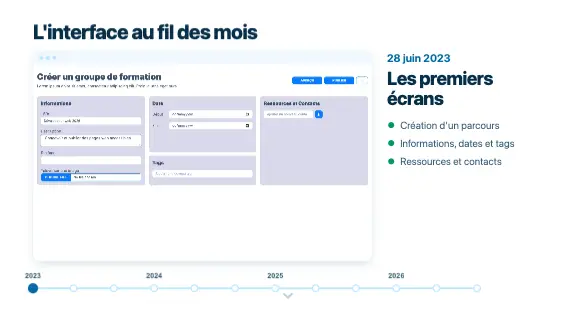
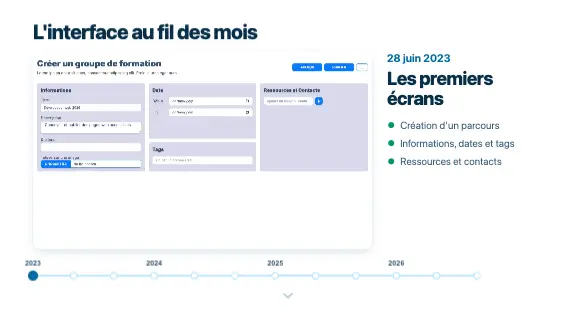
fix(S5): report du correctif de mise en page et miniature de la clôture
Reprend 045b3f5 (plus de fausse barre de fenêtre, chevron dégagé) et
régénère la miniature du plan de navigation.

Changed region(s): [[0.0625, 0.1543, 0.6562, 0.5864], [0.0312, 0.8025, 0.8438, 0.9259]]

diff --git a/composition/index.html b/composition/index.html
@@ -400,7 +400,7 @@
     <div id="scene-closing" data-stage="hidden" class="scene-frame clip" data-composition-id="closing" data-start="30" data-duration="8" data-width="1920" data-height="1080" data-tx-data-label="closing.label" data-fragments='[30.2, 30.8, 31.4, 32.0, 32.6, 33.2, 33.8, 34.4, 35.0, 35.6, 36.2, 36.8, 37.4]'>
       <div class="cam">
         <h2 class="cl-title" data-tx="closing.title"></h2>
-        <div class="cl-browser"><div class="cl-bar"><i></i><i></i><i></i></div><div class="cl-view"><div class="cl-shot"><span class="cl-miss" data-tx="closing.captureManquante"></span><img alt="" data-tx-src="closing.snapshots.0.image" data-tx-alt="closing.snapshots.0.titre" /></div><div class="cl-shot"><span class="cl-miss" data-tx="closing.captureManquante"></span><img alt="" data-tx-src="closing.snapshots.1.image" data-tx-alt="closing.snapshots.1.titre" /></div><div class="cl-shot"><span class="cl-miss" data-tx="closing.captureManquante"></span><img alt="" data-tx-src="closing.snapshots.2.image" data-tx-alt="closing.snapshots.2.titre" /></div><div class="cl-shot"><span class="cl-miss" data-tx="closing.captureManquante"></span><img alt="" data-tx-src="closing.snapshots.3.image" data-tx-alt="closing.snapshots.3.titre" /></div><div class="cl-shot"><span class="cl-miss" data-tx="closing.captureManquante"></span><img alt="" data-tx-src="closing.snapshots.4.image" data-tx-alt="closing.snapshots.4.titre" /></div><div class="cl-shot"><span class="cl-miss" data-tx="closing.captureManquante"></span><img alt="" data-tx-src="closing.snapshots.5.image" data-tx-alt="closing.snapshots.5.titre" /></div><div class="cl-shot"><span class="cl-miss" data-tx="closing.captureManquante"></span><img alt="" data-tx-src="closing.snapshots.6.image" data-tx-alt="closing.snapshots.6.titre" /></div><div class="cl-shot"><span class="cl-miss" data-tx="closing.captureManquante"></span><img alt="" data-tx-src="closing.snapshots.7.image" data-tx-alt="closing.snapshots.7.titre" /></div><div class="cl-shot"><span class="cl-miss" data-tx="closing.captureManquante"></span><img alt="" data-tx-src="closing.snapshots.8.image" data-tx-alt="closing.snapshots.8.titre" /></div><div class="cl-shot"><span class="cl-miss" data-tx="closing.captureManquante"></span><img alt="" data-tx-src="closing.snapshots.9.image" data-tx-alt="closing.snapshots.9.titre" /></div><div class="cl-shot"><span class="cl-miss" data-tx="closing.captureManquante"></span><img alt="" data-tx-src="closing.snapshots.10.image" data-tx-alt="closing.snapshots.10.titre" /></div><div class="cl-shot"><span class="cl-miss" data-tx="closing.captureManquante"></span><img alt="" data-tx-src="closing.snapshots.11.image" data-tx-alt="closing.snapshots.11.titre" /></div></div></div>
+        <div class="cl-browser"><div class="cl-view"><div class="cl-shot"><span class="cl-miss" data-tx="closing.captureManquante"></span><img alt="" data-tx-src="closing.snapshots.0.image" data-tx-alt="closing.snapshots.0.titre" /></div><div class="cl-shot"><span class="cl-miss" data-tx="closing.captureManquante"></span><img alt="" data-tx-src="closing.snapshots.1.image" data-tx-alt="closing.snapshots.1.titre" /></div><div class="cl-shot"><span class="cl-miss" data-tx="closing.captureManquante"></span><img alt="" data-tx-src="closing.snapshots.2.image" data-tx-alt="closing.snapshots.2.titre" /></div><div class="cl-shot"><span class="cl-miss" data-tx="closing.captureManquante"></span><img alt="" data-tx-src="closing.snapshots.3.image" data-tx-alt="closing.snapshots.3.titre" /></div><div class="cl-shot"><span class="cl-miss" data-tx="closing.captureManquante"></span><img alt="" data-tx-src="closing.snapshots.4.image" data-tx-alt="closing.snapshots.4.titre" /></div><div class="cl-shot"><span class="cl-miss" data-tx="closing.captureManquante"></span><img alt="" data-tx-src="closing.snapshots.5.image" data-tx-alt="closing.snapshots.5.titre" /></div><div class="cl-shot"><span class="cl-miss" data-tx="closing.captureManquante"></span><img alt="" data-tx-src="closing.snapshots.6.image" data-tx-alt="closing.snapshots.6.titre" /></div><div class="cl-shot"><span class="cl-miss" data-tx="closing.captureManquante"></span><img alt="" data-tx-src="closing.snapshots.7.image" data-tx-alt="closing.snapshots.7.titre" /></div><div class="cl-shot"><span class="cl-miss" data-tx="closing.captureManquante"></span><img alt="" data-tx-src="closing.snapshots.8.image" data-tx-alt="closing.snapshots.8.titre" /></div><div class="cl-shot"><span class="cl-miss" data-tx="closing.captureManquante"></span><img alt="" data-tx-src="closing.snapshots.9.image" data-tx-alt="closing.snapshots.9.titre" /></div><div class="cl-shot"><span class="cl-miss" data-tx="closing.captureManquante"></span><img alt="" data-tx-src="closing.snapshots.10.image" data-tx-alt="closing.snapshots.10.titre" /></div><div class="cl-shot"><span class="cl-miss" data-tx="closing.captureManquante"></span><img alt="" data-tx-src="closing.snapshots.11.image" data-tx-alt="closing.snapshots.11.titre" /></div></div></div>
         <div class="cl-info"><article class="cl-card"><p class="cl-date" data-tx="closing.snapshots.0.date"></p><h3 class="cl-name" data-tx="closing.snapshots.0.titre"></h3><ul class="cl-feat"><li data-tx="closing.snapshots.0.fonctions.0"></li><li data-tx="closing.snapshots.0.fonctions.1"></li><li data-tx="closing.snapshots.0.fonctions.2"></li></ul></article><article class="cl-card"><p class="cl-date" data-tx="closing.snapshots.1.date"></p><h3 class="cl-name" data-tx="closing.snapshots.1.titre"></h3><ul class="cl-feat"><li data-tx="closing.snapshots.1.fonctions.0"></li><li data-tx="closing.snapshots.1.fonctions.1"></li><li data-tx="closing.snapshots.1.fonctions.2"></li></ul></article><article class="cl-card"><p class="cl-date" data-tx="closing.snapshots.2.date"></p><h3 class="cl-name" data-tx="closing.snapshots.2.titre"></h3><ul class="cl-feat"><li data-tx="closing.snapshots.2.fonctions.0"></li><li data-tx="closing.snapshots.2.fonctions.1"></li><li data-tx="closing.snapshots.2.fonctions.2"></li></ul></article><article class="cl-card"><p class="cl-date" data-tx="closing.snapshots.3.date"></p><h3 class="cl-name" data-tx="closing.snapshots.3.titre"></h3><ul class="cl-feat"><li data-tx="closing.snapshots.3.fonctions.0"></li><li data-tx="closing.snapshots.3.fonctions.1"></li><li data-tx="closing.snapshots.3.fonctions.2"></li></ul></article><article class="cl-card"><p class="cl-date" data-tx="closing.snapshots.4.date"></p><h3 class="cl-name" data-tx="closing.snapshots.4.titre"></h3><ul class="cl-feat"><li data-tx="closing.snapshots.4.fonctions.0"></li><li data-tx="closing.snapshots.4.fonctions.1"></li><li data-tx="closing.snapshots.4.fonctions.2"></li></ul></article><article class="cl-card"><p class="cl-date" data-tx="closing.snapshots.5.date"></p><h3 class="cl-name" data-tx="closing.snapshots.5.titre"></h3><ul class="cl-feat"><li data-tx="closing.snapshots.5.fonctions.0"></li><li data-tx="closing.snapshots.5.fonctions.1"></li><li data-tx="closing.snapshots.5.fonctions.2"></li></ul></article><article class="cl-card"><p class="cl-date" data-tx="closing.snapshots.6.date"></p><h3 class="cl-name" data-tx="closing.snapshots.6.titre"></h3><ul class="cl-feat"><li data-tx="closing.snapshots.6.fonctions.0"></li><li data-tx="closing.snapshots.6.fonctions.1"></li><li data-tx="closing.snapshots.6.fonctions.2"></li></ul></article><article class="cl-card"><p class="cl-date" data-tx="closing.snapshots.7.date"></p><h3 class="cl-name" data-tx="closing.snapshots.7.titre"></h3><ul class="cl-feat"><li data-tx="closing.snapshots.7.fonctions.0"></li><li data-tx="closing.snapshots.7.fonctions.1"></li><li data-tx="closing.snapshots.7.fonctions.2"></li></ul></article><article class="cl-card"><p class="cl-date" data-tx="closing.snapshots.8.date"></p><h3 class="cl-name" data-tx="closing.snapshots.8.titre"></h3><ul class="cl-feat"><li data-tx="closing.snapshots.8.fonctions.0"></li><li data-tx="closing.snapshots.8.fonctions.1"></li><li data-tx="closing.snapshots.8.fonctions.2"></li></ul></article><article class="cl-card"><p class="cl-date" data-tx="closing.snapshots.9.date"></p><h3 class="cl-name" data-tx="closing.snapshots.9.titre"></h3><ul class="cl-feat"><li data-tx="closing.snapshots.9.fonctions.0"></li><li data-tx="closing.snapshots.9.fonctions.1"></li><li data-tx="closing.snapshots.9.fonctions.2"></li></ul></article><article class="cl-card"><p class="cl-date" data-tx="closing.snapshots.10.date"></p><h3 class="cl-name" data-tx="closing.snapshots.10.titre"></h3><ul class="cl-feat"><li data-tx="closing.snapshots.10.fonctions.0"></li><li data-tx="closing.snapshots.10.fonctions.1"></li><li data-tx="closing.snapshots.10.fonctions.2"></li></ul></article><article class="cl-card"><p class="cl-date" data-tx="closing.snapshots.11.date"></p><h3 class="cl-name" data-tx="closing.snapshots.11.titre"></h3><ul class="cl-feat"><li data-tx="closing.snapshots.11.fonctions.0"></li><li data-tx="closing.snapshots.11.fonctions.1"></li><li data-tx="closing.snapshots.11.fonctions.2"></li></ul></article></div>
         <div class="cl-rail"><i class="cl-line"></i><i class="cl-done"></i><span class="cl-ext"><svg viewBox="0 0 24 24" aria-hidden="true"><path d="M5 12h13"/><path d="m13 6 6 6-6 6"/></svg></span><button type="button" class="cl-dot" data-goto="0" data-scene="closing" data-tx-aria-label="closing.snapshots.0.date"><i></i><span class="cl-yr"></span></button><button type="button" class="cl-dot" data-goto="1" data-scene="closing" data-tx-aria-label="closing.snapshots.1.date"><i></i><span class="cl-yr"></span></button><button type="button" class="cl-dot" data-goto="2" data-scene="closing" data-tx-aria-label="closing.snapshots.2.date"><i></i><span class="cl-yr"></span></button><button type="button" class="cl-dot" data-goto="3" data-scene="closing" data-tx-aria-label="closing.snapshots.3.date"><i></i><span class="cl-yr"></span></button><button type="button" class="cl-dot" data-goto="4" data-scene="closing" data-tx-aria-label="closing.snapshots.4.date"><i></i><span class="cl-yr"></span></button><button type="button" class="cl-dot" data-goto="5" data-scene="closing" data-tx-aria-label="closing.snapshots.5.date"><i></i><span class="cl-yr"></span></button><button type="button" class="cl-dot" data-goto="6" data-scene="closing" data-tx-aria-label="closing.snapshots.6.date"><i></i><span class="cl-yr"></span></button><button type="button" class="cl-dot" data-goto="7" data-scene="closing" data-tx-aria-label="closing.snapshots.7.date"><i></i><span class="cl-yr"></span></button><button type="button" class="cl-dot" data-goto="8" data-scene="closing" data-tx-aria-label="closing.snapshots.8.date"><i></i><span class="cl-yr"></span></button><button type="button" class="cl-dot" data-goto="9" data-scene="closing" data-tx-aria-label="closing.snapshots.9.date"><i></i><span class="cl-yr"></span></button><button type="button" class="cl-dot" data-goto="10" data-scene="closing" data-tx-aria-label="closing.snapshots.10.date"><i></i><span class="cl-yr"></span></button><button type="button" class="cl-dot" data-goto="11" data-scene="closing" data-tx-aria-label="closing.snapshots.11.date"><i></i><span class="cl-yr"></span></button></div>
         <div class="cl-final"><p class="cl-msg" data-tx="closing.final.message"></p><button type="button" class="btn primary cl-demo" data-tx-data-open="deck.demoUrl"><span data-tx="closing.final.demo"></span><span class="cl-url" data-tx="closing.final.adresse"></span></button></div>

diff --git a/composition/css/scenes.css b/composition/css/scenes.css
@@ -4360,31 +4360,16 @@
   left: 110px;
   top: 170px;
   width: 1130px;
-  height: 700px;
+  height: 660px;
   border-radius: 22px;
   border: 1px solid var(--color-base-300);
   background: var(--color-base-100);
   box-shadow: var(--elev);
   overflow: hidden;
 }
-#scene-closing .cl-bar {
-  display: flex;
-  align-items: center;
-  gap: 9px;
-  height: 44px;
-  padding-left: 20px;
-  background: var(--color-base-200);
-  border-bottom: 1px solid var(--color-base-300);
-}
-#scene-closing .cl-bar i {
-  width: 13px;
-  height: 13px;
-  border-radius: 50%;
-  background: var(--color-base-300);
-}
 #scene-closing .cl-view {
   position: relative;
-  height: 656px;
+  height: 100%;
   background: var(--color-base-200);
 }
 #scene-closing .cl-shot {
@@ -4416,7 +4401,7 @@
   left: 1290px;
   top: 170px;
   width: 520px;
-  height: 700px;
+  height: 660px;
 }
 #scene-closing .cl-card {
   position: absolute;
@@ -4464,7 +4449,7 @@
 #scene-closing .cl-rail {
   position: absolute;
   left: 110px;
-  top: 944px;
+  top: 902px;
   width: 1700px;
   height: 60px;
 }

diff --git a/composition/js/scene-closing.js b/composition/js/scene-closing.js
@@ -88,7 +88,7 @@
     fx.ft(tl, q(".cl-title, .cl-browser"), { opacity: 1, y: 0 }, { opacity: 0, y: -50, duration: 0.7, ease: "power2.in" }, tf);
     fx.ft(tl, q(".chevron.mini"), { opacity: 1 }, { opacity: 0, duration: 0.3 }, tf);
     tl.set(q(".chevron.mini"), { pointerEvents: "none" }, tf);
-    fx.ft(tl, q(".cl-rail"), { y: 0 }, { y: -420, duration: 1.0, ease: "power3.inOut" }, tf + 0.2);
+    fx.ft(tl, q(".cl-rail"), { y: 0 }, { y: -380, duration: 1.0, ease: "power3.inOut" }, tf + 0.2);
     fx.ft(tl, q(".cl-ext"), { opacity: 0, scaleX: 0 }, { opacity: 1, scaleX: 1, duration: 1.0, ease: "power2.out" }, tf + 1.1);
     Deck.Stage.fromTo(tl, "hidden", "dock", tf + 0.4, 1.0, "power3.inOut", 0.05);
     // Partenaires et années : l'apparition est déclarée ici (leurs états dépendent sinon de l'introduction).
